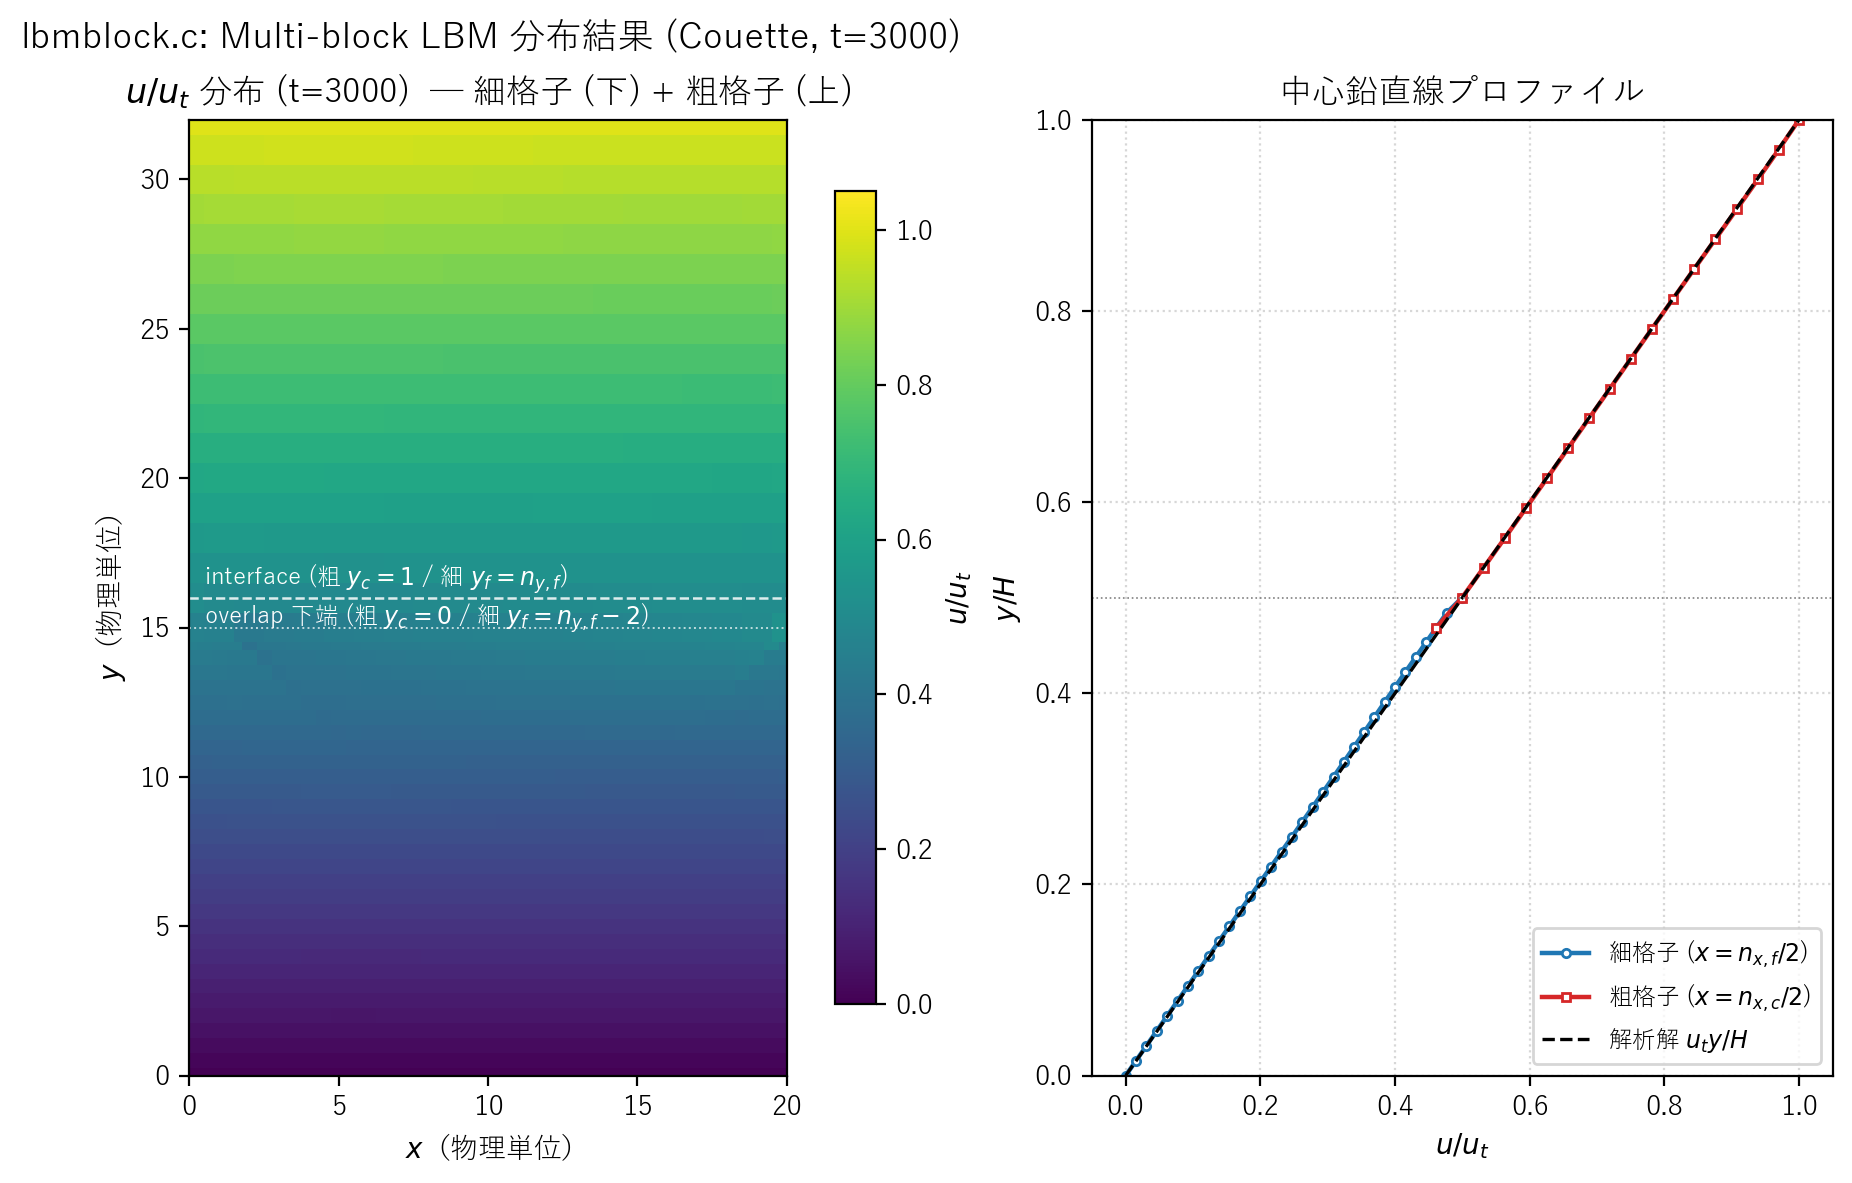
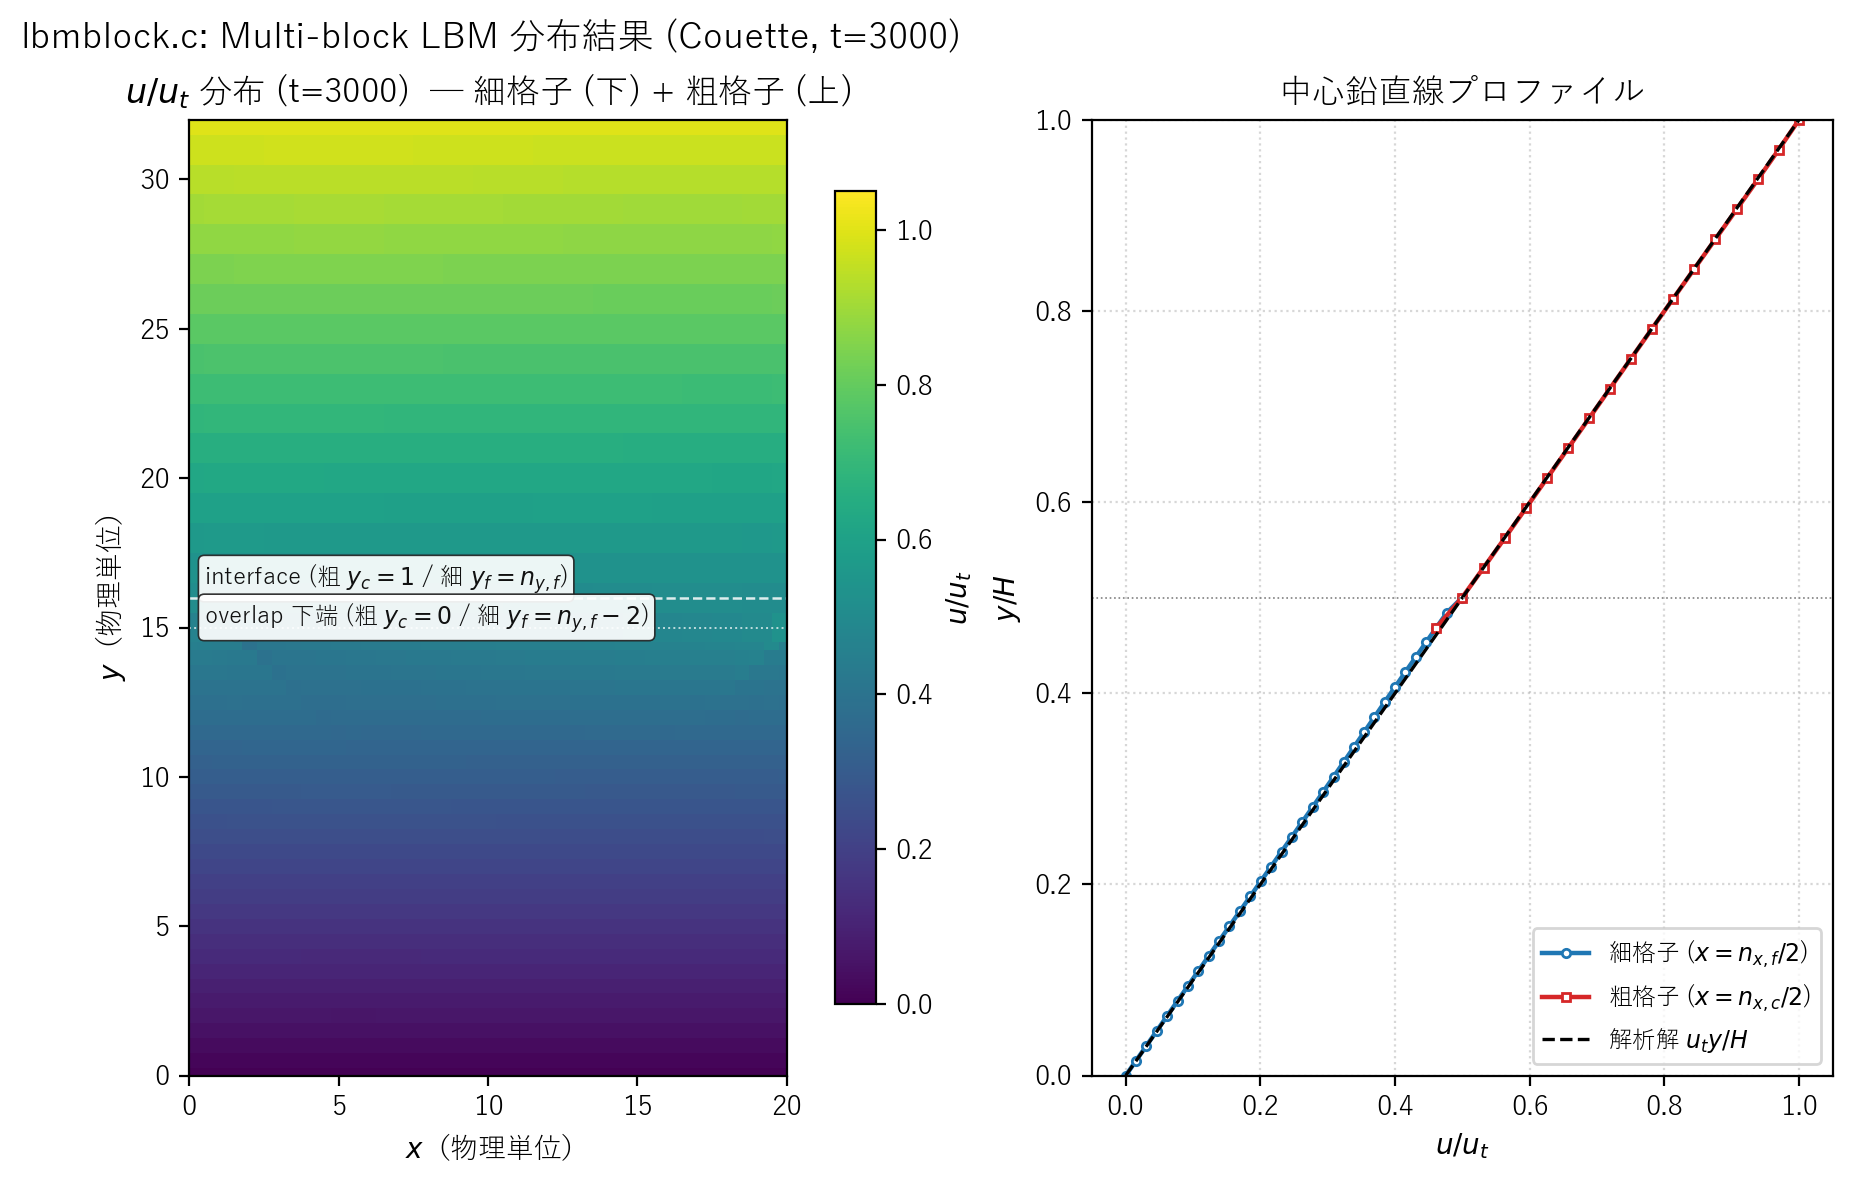
Address PR review: rename i-indices, drop unused var, improve annotation contrast
- plot_lbmblock_distribution.py: rename j_mid_f/j_mid_c to i_mid_f/i_mid_c
  (these are x column indices, not y), drop unused pcm_c return value,
  and put heatmap annotations on white background boxes so they remain
  readable on the bright-viridis region near u/u_t ≈ 0.5
- .gitignore: also ignore {u,v}*_{coarse,fine} 2D dump files for runs
  outside outputs/
- README.md: add 更新履歴 entry for #22

Changed region(s): [[0.0923, 0.4565, 0.3693, 0.5478]]

diff --git a/scripts/plot_lbmblock_distribution.py b/scripts/plot_lbmblock_distribution.py
@@ -84,7 +84,7 @@ def plot_distribution() -> None:
         vmax=vmax,
         rasterized=True,
     )
-    pcm_c = ax_2d.pcolormesh(
+    ax_2d.pcolormesh(
         xc,
         yc,
         uc / UT,
@@ -98,10 +98,11 @@ def plot_distribution() -> None:
     # mark interface (physical y = ny/2 = 16) and overlap band (15..16)
     ax_2d.axhline(NY / 2, color="white", linestyle="--", linewidth=0.9, alpha=0.85)
     ax_2d.axhline(NY / 2 - 1, color="white", linestyle=":", linewidth=0.7, alpha=0.7)
+    annot_bbox = dict(boxstyle="round,pad=0.25", fc="white", ec="#222", lw=0.6, alpha=0.92)
     ax_2d.text(0.5, NY / 2 + 0.4, "interface (粗 $y_c=1$ / 細 $y_f=n_{y,f}$)",
-               color="white", fontsize=8.5)
+               color="#111", fontsize=8.5, bbox=annot_bbox)
     ax_2d.text(0.5, NY / 2 - 0.9, "overlap 下端 (粗 $y_c=0$ / 細 $y_f=n_{y,f}-2$)",
-               color="white", fontsize=8.5)
+               color="#111", fontsize=8.5, bbox=annot_bbox)
 
     ax_2d.set_xlim(0, NX)
     ax_2d.set_ylim(0, NY)
@@ -114,12 +115,12 @@ def plot_distribution() -> None:
 
     # right: centerline profile
     ax_p = fig.add_subplot(gs[0, 2])
-    j_mid_f = NXF // 2
-    j_mid_c = NXC // 2
-    ax_p.plot(uf[:, j_mid_f] / UT, yf / NY, color="C0", linewidth=1.6,
+    i_mid_f = NXF // 2
+    i_mid_c = NXC // 2
+    ax_p.plot(uf[:, i_mid_f] / UT, yf / NY, color="C0", linewidth=1.6,
               marker="o", markersize=3.0, markerfacecolor="white",
               label="細格子 ($x=n_{x,f}/2$)")
-    ax_p.plot(uc[:, j_mid_c] / UT, yc / NY, color="C3", linewidth=1.6,
+    ax_p.plot(uc[:, i_mid_c] / UT, yc / NY, color="C3", linewidth=1.6,
               marker="s", markersize=3.0, markerfacecolor="white",
               label="粗格子 ($x=n_{x,c}/2$)")
     y_exact = np.linspace(0, NY, 401)
